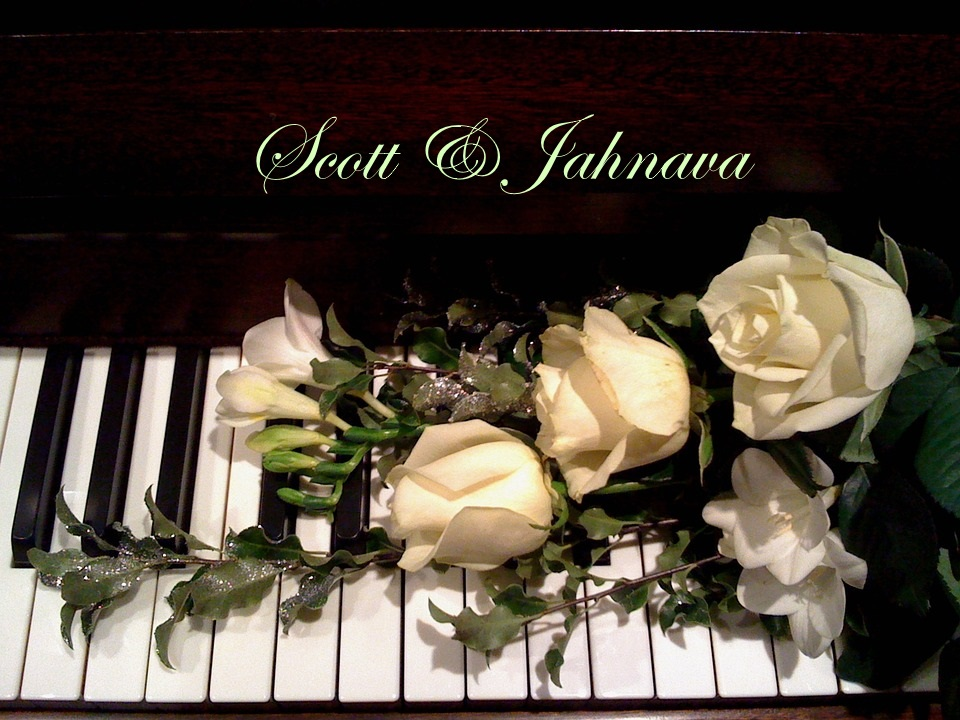
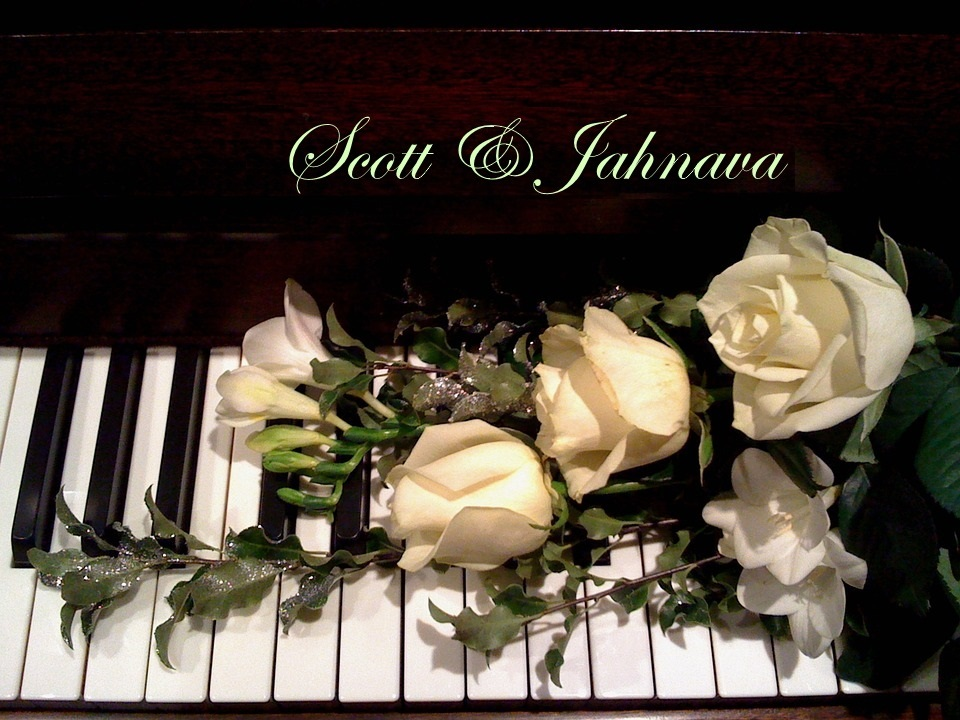
changed hsla settings and letter url

Changed region(s): [[0.25, 0.1528, 0.8125, 0.275]]

diff --git a/public/css/details.css b/public/css/details.css
@@ -35,7 +35,7 @@ html, body, .page {
   left: 200%;
 }
 
-#p1 { background-image: url('/images/flowerpiano2.jpg');background-image: no-repeat center center fixed;
+#p1 { background-image: url('/images/flowerpiano3.jpg');background-image: no-repeat center center fixed;
   -webkit-background-size: cover;
   -moz-background-size: cover;
   -o-background-size: cover;
@@ -293,62 +293,62 @@ h2 {
 @keyframes move {
   0% {
     text-shadow:
-      4px -4px 0 hsla(0, 100%, 50%, 1),
-      3px -3px 0 hsla(0, 100%, 50%, 1),
-      2px -2px 0 hsla(0, 100%, 50%, 1),
-      1px -1px 0 hsla(0, 100%, 50%, 1),
-      -4px 4px 0 hsla(180, 100%, 50%, 1),
-      -3px 3px 0 hsla(180, 100%, 50%, 1),
-      -2px 2px 0 hsla(180, 100%, 50%, 1),
-      -1px 1px 0 hsla(180, 100%, 50%, 1)
+      4px -4px 0 hsla(200, 100%, 50%, 1),
+      3px -3px 0 hsla(200, 100%, 50%, 1),
+      2px -2px 0 hsla(200, 0%, 50%, 1),
+      1px -1px 0 hsla(200, 100%, 50%, 1),
+      -4px 4px 0 hsla(300, 100%, 50%, 1),
+      -3px 3px 0 hsla(300, 0%, 50%, 1),
+      -2px 2px 0 hsla(300, 100%, 50%, 1),
+      -1px 1px 0 hsla(300, 100%, 50%, 1)
     ;
   }
   25% {
     text-shadow:
-      -4px -4px 0 hsla(180, 100%, 50%, 1),
-      -3px -3px 0 hsla(180, 100%, 50%, 1),
-      -2px -2px 0 hsla(180, 100%, 50%, 1),
-      -1px -1px 0 hsla(180, 100%, 50%, 1),
-      4px 4px 0 hsla(0, 100%, 50%, 1),
-      3px 3px 0 hsla(0, 100%, 50%, 1),
-      2px 2px 0 hsla(0, 100%, 50%, 1),
-      1px 1px 0 hsla(0, 100%, 50%, 1)
+      -4px -4px 0 hsla(300, 0%, 50%, 1),
+      -3px -3px 0 hsla(300, 100%, 50%, 1),
+      -2px -2px 0 hsla(300, 100%, 50%, 1),
+      -1px -1px 0 hsla(300, 100%, 50%, 1),
+      4px 4px 0 hsla(290, 0%, 50%, 1),
+      3px 3px 0 hsla(290, 100%, 50%, 1),
+      2px 2px 0 hsla(290, 100%, 50%, 1),
+      1px 1px 0 hsla(290, 0%, 50%, 1)
     ;
   }
   50% {
     text-shadow:
-      /*-4px 4px 0 hsla(0, 100%, 50%, 1),
-      -3px 3px 0 hsla(0, 100%, 50%, 1),
-      -2px 2px 0 hsla(0, 100%, 50%, 1),
-      -1px 1px 0 hsla(0, 100%, 50%, 1),
-      4px -4px 0 hsla(180, 100%, 50%, 1),
-      3px -3px 0 hsla(180, 100%, 50%, 1),
-      2px -2px 0 hsla(180, 100%, 50%, 1),
-      1px -1px 0 hsla(180, 100%, 50%, 1)
-    ;*/
+      -4px 4px 0 hsla(300, 100%, 50%, 1),
+      -3px 3px 0 hsla(300, 100%, 50%, 1),
+      -2px 2px 0 hsla(300, 100%, 50%, 1),
+      -1px 1px 0 hsla(300, 100%, 50%, 1),
+      4px -4px 0 hsla(280, 100%, 50%, 1),
+      3px -3px 0 hsla(280, 100%, 50%, 1),
+      2px -2px 0 hsla(280, 100%, 50%, 1),
+      1px -1px 0 hsla(280, 0%, 0%, 1)
+    ;
   }
   75% {
     text-shadow:
-      /*4px 4px 0 hsla(180, 100%, 50%, 1),
-      3px 3px 0 hsla(180, 100%, 50%, 1),
-      2px 2px 0 hsla(180, 100%, 50%, 1),
-      1px 1px 0 hsla(180, 100%, 50%, 1),
-      -4px -4px 0 hsla(0, 100%, 50%, 1),
-      -3px -3px 0 hsla(0, 100%, 50%, 1),
-      -2px -2px 0 hsla(0, 100%, 50%, 1),
-      -1px -1px 0 hsla(0, 100%, 50%, 1)
-    ;*/
+      4px 4px 0 hsla(200, 0%, 50%, 1),
+      3px 3px 0 hsla(200, 100%, 50%, 1),
+      2px 2px 0 hsla(200, 0%, 50%, 1),
+      1px 1px 0 hsla(200, 100%, 50%, 1),
+      -4px -4px 0 hsla(300, 100%, 50%, 1),
+      -3px -3px 0 hsla(280, 100%, 50%, 1),
+      -2px -2px 0 hsla(280, 100%, 50%, 1),
+      -1px -1px 0 hsla(290, 0%, 50%, 1)
+    ;
   }
   100% {
     text-shadow:
-      4px -4px 0 hsla(0, 100%, 50%, 0),
-      3px -3px 0 hsla(0, 100%, 50%, 1),
-      2px -2px 0 hsla(0, 100%, 50%, 1),
-      1px -1px 0 hsla(0, 100%, 50%, 1),
-      -4px 4px 0 hsla(180, 100%, 50%, 1),
-      -3px 3px 0 hsla(180, 100%, 50%, 1),
-      -2px 2px 0 hsla(180, 100%, 50%, 1),
-      -1px 1px 0 hsla(180, 100%, 50%, 1)
+      4px -4px 0 hsla(300, 0%, 50%, 0),
+      3px -3px 0 hsla(300, 100%, 50%, 1),
+      2px -2px 0 hsla(300, 0%, 0%, 1),
+      1px -1px 0 hsla(300, 100%, 50%, 1),
+      -4px 4px 0 hsla(300, 0%, 50%, 1),
+      -3px 3px 0 hsla(300, 100%, 50%, 1),
+      -2px 2px 0 hsla(300, 0%, 50%, 1),
+      -1px 1px 0 hsla(300, 100%, 50%, 1)
     ;
   }
 }
@@ -398,7 +398,7 @@ canvas {
    height: 150px;
    position: absolute;
    left: 50%;
-   top: 50%;
+   top: 65%;
    margin-left: -150px;
    margin-top: -0px;
   border-bottom-left-radius: 20px;
